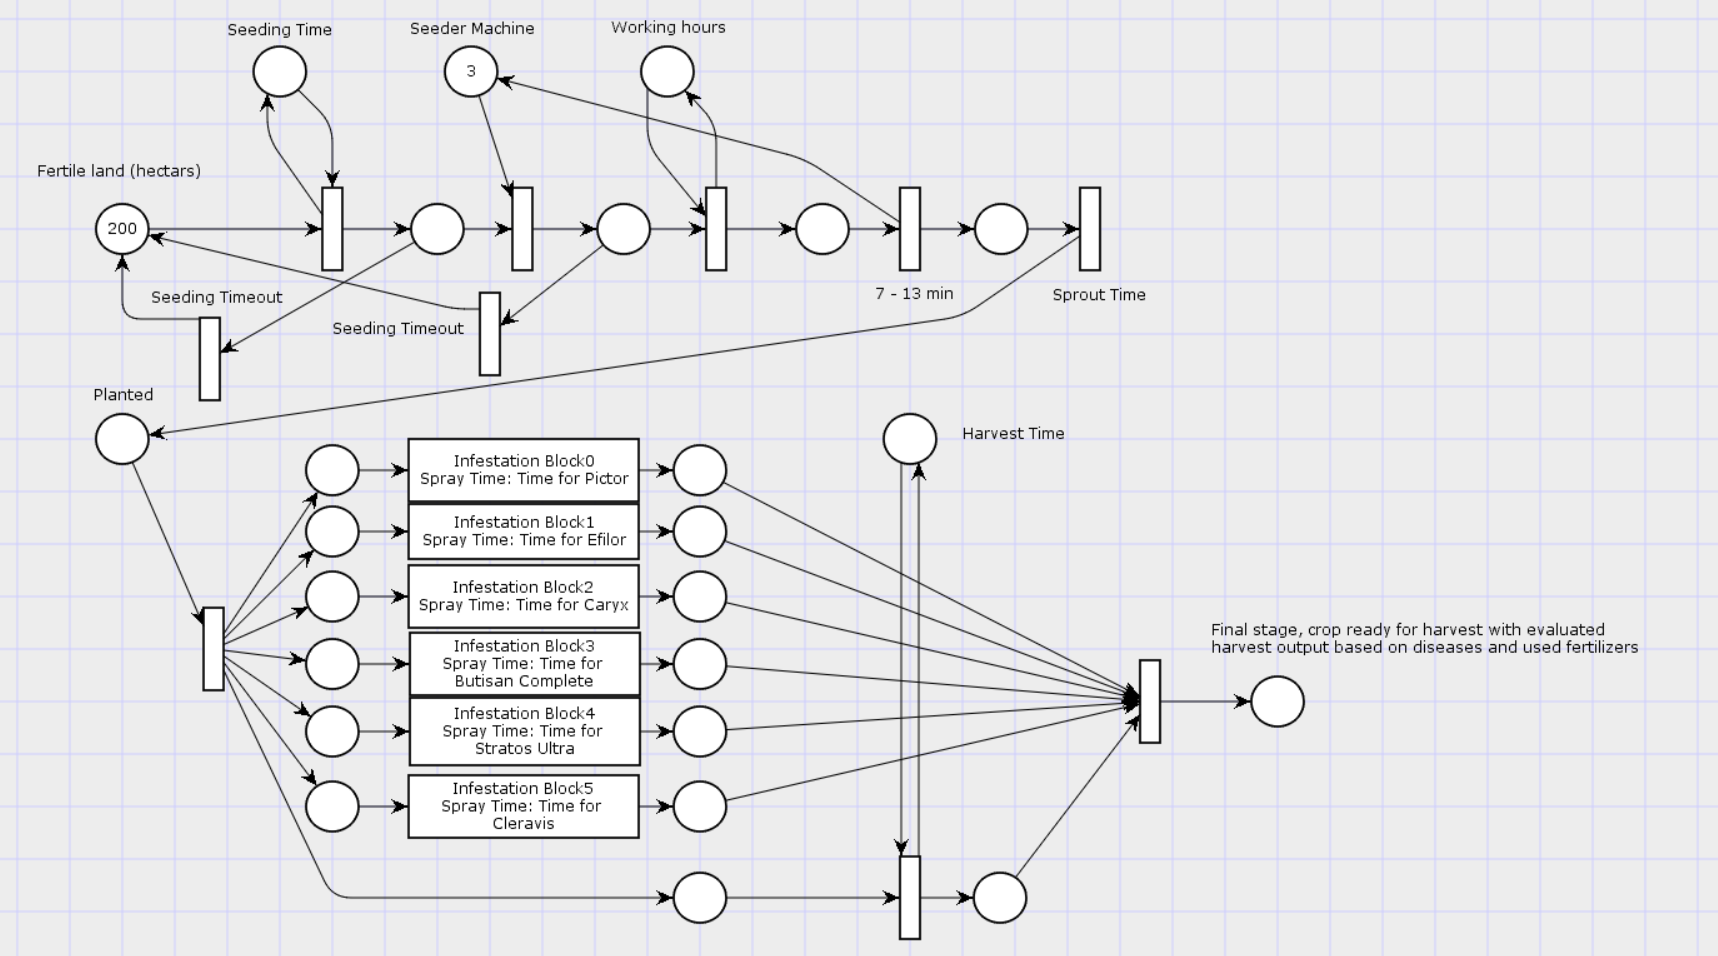
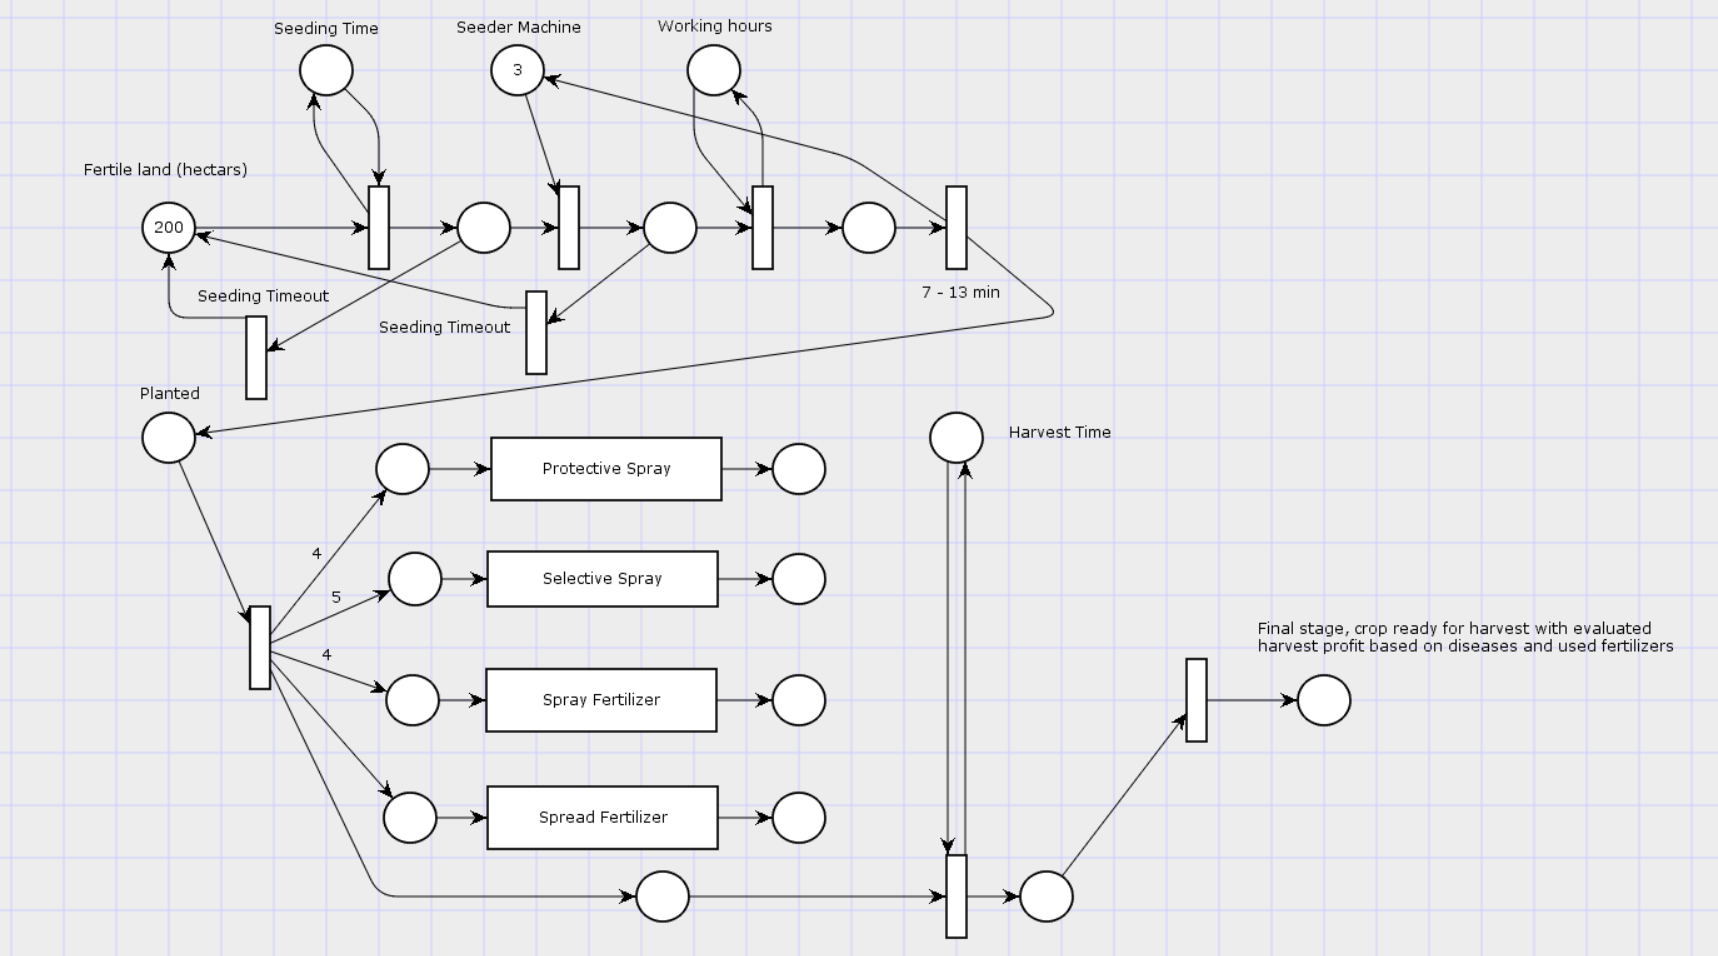
prototyp v1.0

Changed region(s): [[0.0308, 0.0, 0.9872, 1.0], [0.1234, 0.0, 0.2159, 0.1517]]

diff --git a/docs/documentation.tex b/docs/documentation.tex
@@ -3,6 +3,7 @@
 \usepackage[T1]{fontenc}
 \usepackage[czech]{babel}
 \usepackage[utf8]{inputenc}
+\usepackage{listings}
 
 \usepackage{graphicx}
 
@@ -66,71 +67,68 @@ Simulace vyhodnotí také předpokládaný výnos řepky v tunách. Ten se bude 
 
 \pagebreak
 \section{Implementace}
-Diskrétní simulaci řídí algoritmus "next event". Čekání na obslužnou linku je zařadí do FIFO fronty, proto bylo potřeba uvažovat dopředu, abychom prvně poslali do fronty transakce s nejvyšší prioritou.
+Diskrétní simulaci řídí algoritmus "next event". Čas simulace je vždy jeden rok, protože léta se vzájemne neovplyvňují a tudíž by sme pořád získavali približne stejné informace z každého roku.
 Pro jednoduché ovlivňování parametrů simulace byl implementován syntaktický analyzátor jednoduchého konfiguračního(config) souboru.
 
 \subsection{Petriho sítě}
 Modelovali jsme diskrétní systém pomocí hierarchické petriho sítě.
 
+\subsubsection{Simulace pracovního týdne}
+Pracovný výkon je lehce ovlyvnitelný počtom pracovných dnú a délky pracovní doby predĺžením pracovnej doby z 8 hodin na dve smeny 16 hodin by nám zvýšilo výkon dvojnásobne.
+Místo \emph{Working Hours} predstavuje, jestli je momentálne pracovní doba.
 \begin{figure}[ht!]
 \centering
 \includegraphics[scale=0.3]{img/WeekGen.png}
 \caption{Transakce "Working hours" v době pracovní doby}
 \end{figure}
 
+\subsubsection{Simulace postřiku}
+Modelujeme dva typy postřiku, ochranný a selektivní. Ochranný postřek se aplikuje na každý hektár pudy v daném období. Selektivní jenom na vybrané hektary pudy napadnuté škúdci.
+
 \begin{figure}[ht!]
 \centering
-\includegraphics[scale=0.3]{img/GenPictorTime.png}
-\caption{Transakce "Time for Pictor" v době potřeby postřiku touto látkou}
+\includegraphics[scale=0.3]{img/SprayProt.png}
+\caption{Průběh ochranného postřikování}
 \end{figure}
 
 \begin{figure}[ht!]
 \centering
-\includegraphics[scale=0.3]{img/GenEfilorTime.png}
-\caption{Transakce "Time for Efilor" v době potřeby postřiku touto látkou}
+\includegraphics[scale=0.3]{img/SpraySel.png}
+\caption{Průběh selektivního postřikování}
+\end{figure}
+
+\pagebreak
+
+\subsubsection{Simulace hnojení}
+Modelujeme dva typy hnojení. Jeden využíva ako obslužnú linku rozmetadlo minerálnych hnojiv a druhý poštrikové stroje. Rozmetadlo je využívané hnojivem Eurofertil Top 49 NPS. Ostatní hnojiva (Fertiactyl Starter, Fertileader Gold a Fertileader Vital) jsou nanášeny postřikem.
+
+\begin{figure}[ht!]
+\centering
+\includegraphics[scale=0.3]{img/FertilizationSpread.png}
+\caption{Průběh hnojení za pomoci rozmetadla minerálnich hnojiv}
 \end{figure}
 
 \begin{figure}[ht!]
 \centering
-\includegraphics[scale=0.3]{img/GenCaryxTime.png}
-\caption{Transakce "Time for Caryx" v době potřeby postřiku touto látkou}
+\includegraphics[scale=0.3]{img/FertilizationSpray.png}
+\caption{Průběh hnojení za pomoci postřikového stroje}
 \end{figure}
 
-\begin{figure}[ht!]
-\centering
-\includegraphics[scale=0.3]{img/GenButisanCompleteTime.png}
-\caption{Transakce "Time for Butisan Complete" v době potřeby postřiku touto látkou}
-\end{figure}
+\pagebreak
 
-\begin{figure}[ht!]
-\centering
-\includegraphics[scale=0.3]{img/GenStratosUltraTime.png}
-\caption{Transakce "Time for Stratos Ultra" v době potřeby postřiku touto látkou}
-\end{figure}
-
-\begin{figure}[ht!]
-\centering
-\includegraphics[scale=0.3]{img/GenCleravisTime.png}
-\caption{Transakce "Time for Cleravis" v době potřeby postřiku touto látkou}
-\end{figure}
-
-\begin{figure}[ht!]
-\centering
-\includegraphics[scale=0.3]{img/Infestation.png}
-\caption{Průběh infestace jakoukoli chorobou/skůdcem}
-\end{figure}
-
-\begin{figure}[ht!]
-\centering
-\includegraphics[scale=0.3]{img/Fertilization.png}
-\caption{Průběh hnojení jakýmkoli hnojivem}
-\end{figure}
+\subsubsection{Simulace rustu}
+Po úspešném zasetí každý hektar vygeneruje jednu transakci pro každý potřebný postřek či hnojení.
 
 \begin{figure}[ht!]
 \centering
 \includegraphics[scale=0.25]{img/Growing.png}
 \caption{Růst řepky}
 \end{figure}
+
+\pagebreak
+
+\subsubsection{Simulace sklizne}
+Sklízecí mlátička sklidí pole a vrátí hektary spátky do místa \emph{Fertile Land}.
 
 \begin{figure}[ht!]
 \centering
@@ -146,25 +144,50 @@ Parametry simulace můžou být nastaveny v souboru \emph{"settings.conf"}. O je
 \\ \\
 Seznam Parametrů:
 \begin{enumerate}
-    \item{\emph{WORKINGHOURSTIME} - představuje hodnotu v minutách v době, kdy se bude v pracovní dny pracovat. Výchozí hodnota je .}
+    \item{\emph{AVERAGEPROFIT} - představuje prumerný výnos v tunách řepky. potencionální zdroj téhle informace v české republice: https://www.vynosy-plodin.cz/2018-okresy-repka-ozima/, Výchozí hodnota je 2.5.}
+    \item{\emph{WORKINGHOURSTIME} - představuje hodnotu v minutách v době, kdy se bude v pracovní dny pracovat. Výchozí hodnota je 480 (8 hodin).}
     \item{\emph{WORKINGDAYSCOUNT} - kolik pracovních dní má jeden týden. Výchozí hodnota je 5.}
-    \item{\emph{MORNINGTIME} - představuje čas v minutách který se na začátku každého dne přeskočí, než se začne pracovat. Výchozí hodnota je .}
-    \item{\emph{TRACTORCOUNT} - kolik traktorů John Deere 6210R máme k dispozici. Výchozí hodnota je .}
-    \item{\emph{SEEDINGMACHINECOUNT} - kolik secích strojů AMAZONE CAYENA máme k dispozici. Výchozí hodnota je .}
-    \item{\emph{SPRAYERCOUNT} - kolik nesených postřikovačů AMAZONE UF máme k dispozici. Výchozí hodnota je .}
-    \item{\emph{FERTILIZERSPREADERCOUNT} - kolik rozmetadel minerálních hnojiv AMAZONE ZA-M Ultra Profis Hydro máme k dispozici. Výchozí hodnota je .}
-    \item{\emph{HARVESTMACHINECOUNT} - kolik sklízecích mlátiček New Holland CR10.90 máme k dispozici. Výchozí hodnota je .}
-    \item{\emph{FERTILELANDCOUNT} - představuje počet hektárů půdy určených na růst řepky. Výchozí hodnota je .}
-    \item{\emph{SEEDINGDURATION} - představuje čas v minutách vyhrazený na sázení řepky. Výchozí hodnota je .}
-    \item{\emph{HARVESTDURATION} - představuje čas v minutách vyhrazený na sklizeň. Výchozí hodnota je .}
+    \item{\emph{MORNINGTIME} - představuje čas v minutách který se na začátku každého dne přeskočí, než se začne pracovat. Výchozí hodnota je 480 (8 hodin).}
+    \item{\emph{TRACTORCOUNT} - kolik traktorů John Deere 6210R máme k dispozici. Výchozí hodnota je 3.}
+    \item{\emph{SEEDINGMACHINECOUNT} - kolik secích strojů AMAZONE CAYENA máme k dispozici. Výchozí hodnota je 3.}
+    \item{\emph{SPRAYERCOUNT} - kolik nesených postřikovačů AMAZONE UF máme k dispozici. Výchozí hodnota je 3.}
+    \item{\emph{FERTILIZERSPREADERCOUNT} - kolik rozmetadel minerálních hnojiv AMAZONE ZA-M Ultra Profis Hydro máme k dispozici. Výchozí hodnota je 3.}
+    \item{\emph{HARVESTMACHINECOUNT} - kolik sklízecích mlátiček New Holland CR10.90 máme k dispozici. Výchozí hodnota je 3.}
+    \item{\emph{FERTILELANDCOUNT} - představuje počet hektárů půdy určených na růst řepky. Výchozí hodnota je 200.}
+    \item{\emph{SEEDINGDURATION} - představuje čas v minutách vyhrazený na sázení řepky. Výchozí hodnota je 7200 (5 dnu).}
+    \item{\emph{HARVESTDURATION} - představuje čas v minutách vyhrazený na sklizeň. Výchozí hodnota je 7200 (5 dnu).}
 \end{enumerate}
 
 \subsubsection{Zápis parametrú}
-Parametry není nutno psát ve tvaru "\emph{WORKINGHOURSTIME}", stejně dobře funguje i zápis "\emph{Working Hours Time}", "\emph{working hours time}" nebo "\emph{workingHours Time}". Při zápisu parametru nezávisí na velikosti písmen ani na mezerách. Když bude hodnota za \ceskeuvozovky{$=$} neplatná, nebo když nebude některý z parametrů uveden v konfiguračním souboru, použije se jeho výchozí hodnota.
+Parametry není nutno psát ve tvaru \ceskeuvozovky{\emph{WORKINGHOURSTIME}}, stejně dobře funguje i zápis \ceskeuvozovky{\emph{Working Hours Time}}, \ceskeuvozovky{\emph{working hours time}} nebo \ceskeuvozovky{\emph{workingHours Time}}. Při zápisu parametru nezávisí na velikosti písmen ani na mezerách. Když bude hodnota za \ceskeuvozovky{$=$} neplatná, nebo když nebude některý z parametrů uveden v konfiguračním souboru, použije se jeho výchozí hodnota.
 
 \section{Příklad použití}
 
+Predstavme si nasledující situaci: \\
+Vlastníme pole o rozlohe 500 hektárov, Máme 3 secí stroje, 3 traktory a 1 rozmetadlo minerálnych hnojiv. Zaujíma nás koľko postřikovacích stroju budeme potřebovat. \\ \\
 
+Proto jako první nastavíme dané parametry do konfiguračního souboru asi nejak takto: \\
+
+\begin{lstlisting}
+//Example 1
+
+Fertile Land Count = 500    //area in hectars
+
+Average Profit = 2.0
+
+Working Hours Time = 480 //duration of daily shift in minutes
+Working Days Count = 5
+Morning Time = 480 //duration in minutes which will be skiped every day before shift start
+
+Seeding Machine Count = 3
+Tractor Count = 3
+Sprayer Count = 1
+Fertilizer Spreader Count = 1
+Harvest Machine Count = 2
+
+SEEDINGDURATION = 7200 //duration of seeding in minutes
+HARVESTDURATION = 7200 //duration of harvest in minutes
+\end{lstlisting}
 
 
 \newpage
